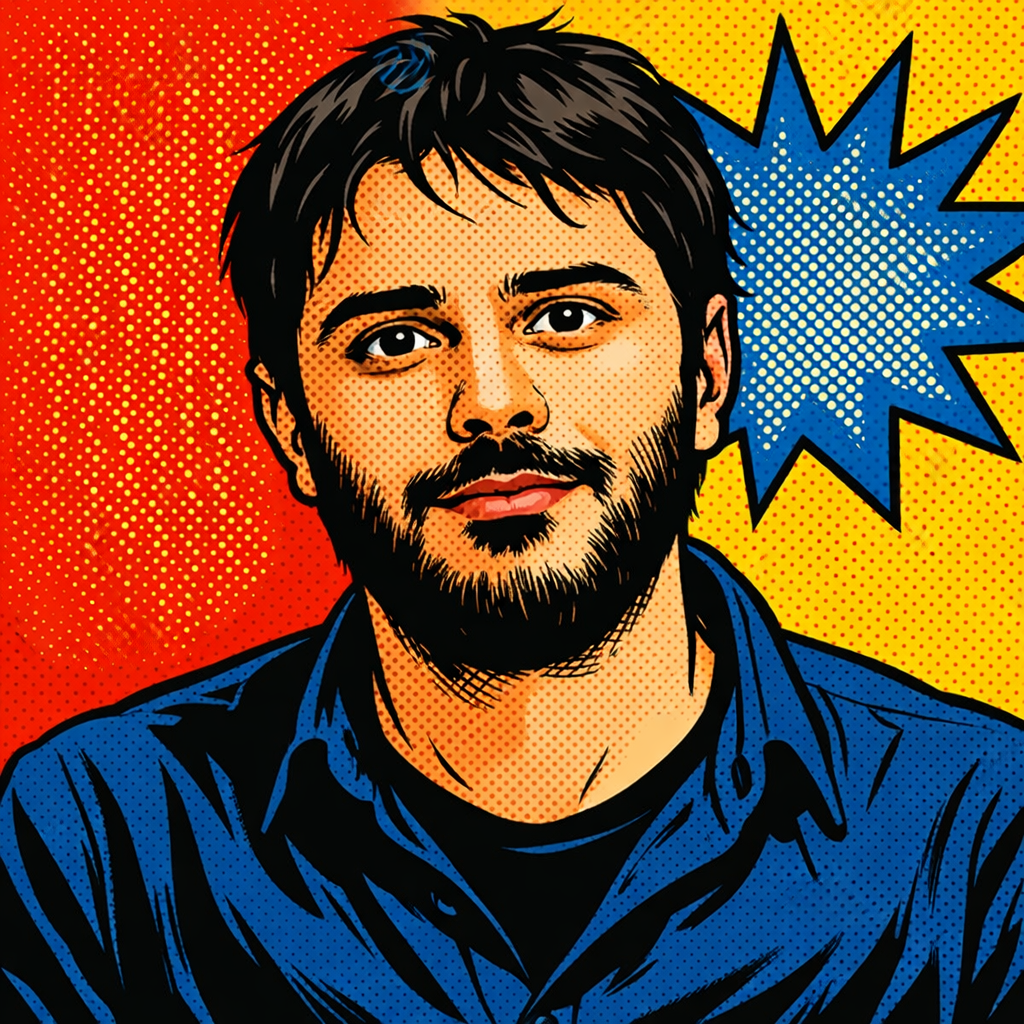
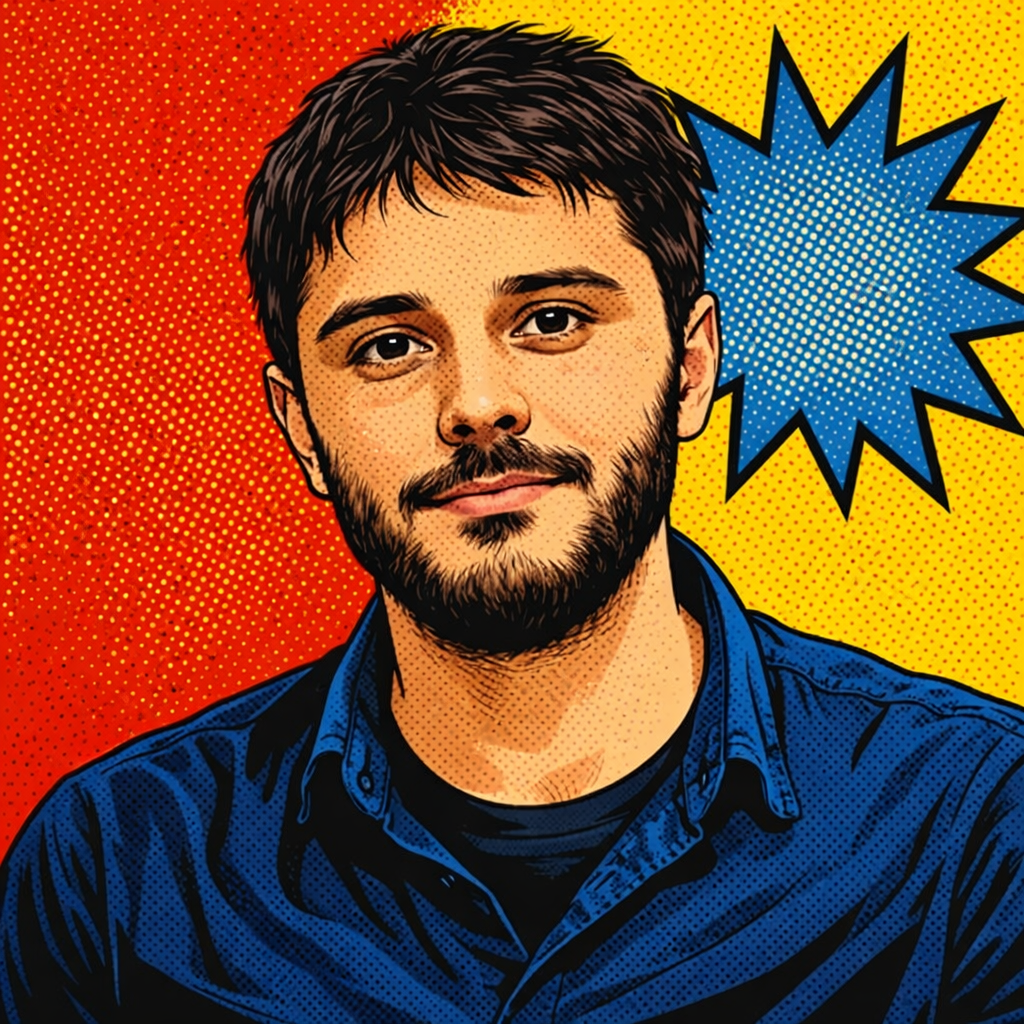
Update tagline and fix typo in post

diff --git a/_posts/2026-02-18-backend-ai-integration.md b/_posts/2026-02-18-backend-ai-integration.md
@@ -23,7 +23,7 @@ AI sağlayıcısına yapılan istekleri doğrudan controller içine yazmak yerin
 - loglama ve hata yönetimi merkezileşir,
 - test yazmak daha kolay olur.
 
-## 3) Prompt ve çıktı kontrolü ekley
+## 3) Prompt ve çıktı kontrolü ekle
 Prod ortamında en kritik konu tutarlılıktır. Bunun için:
 - sabit prompt şablonları kullan,
 - JSON gibi yapılandırılmış çıktı,
